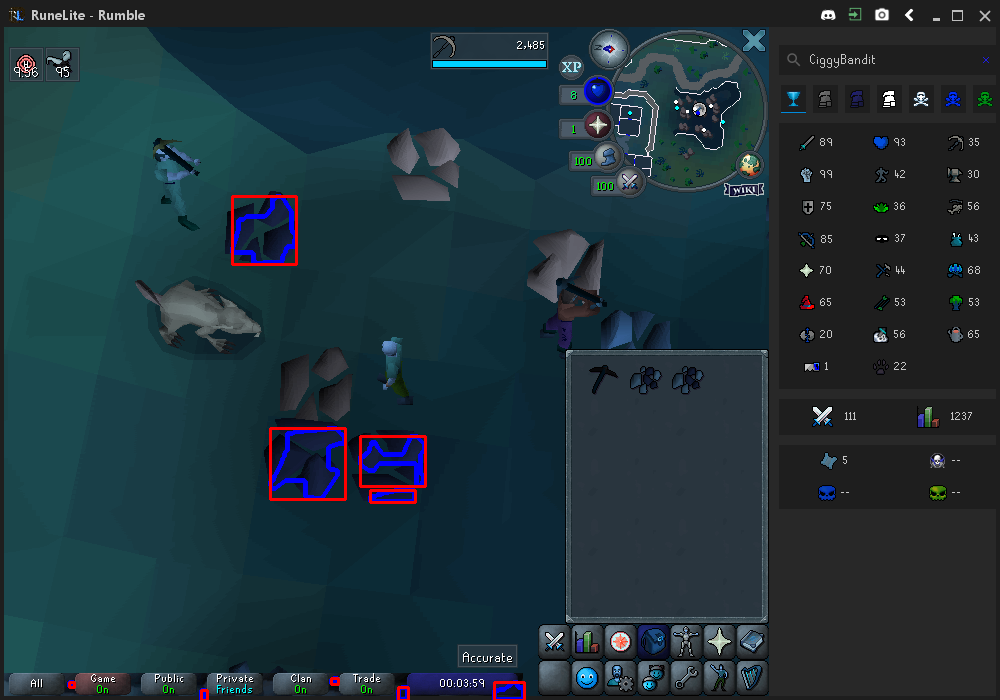
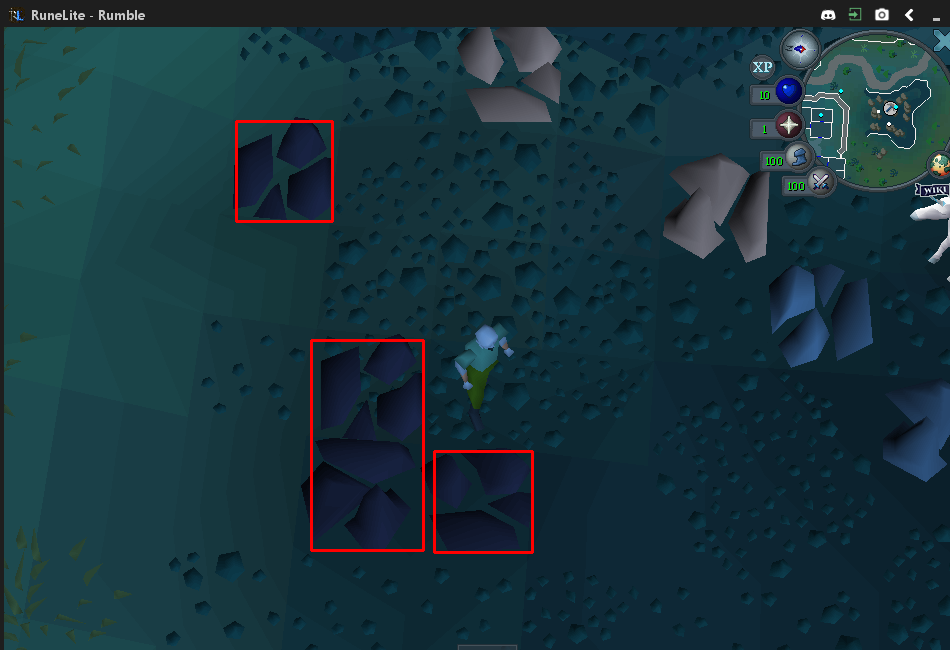
minor changes created config folder, changed min area for ore detection

diff --git a/scripts/ore_miner_script.py b/scripts/ore_miner_script.py
@@ -4,7 +4,6 @@ from object_detector import ObjectDetector
 from camera import Camera
 import numpy as np
 
-
 class OreMinerScript():
     def __init__(self, ore, window, cursor, numberOfRocks):
         self.window = window
@@ -14,15 +13,14 @@ class OreMinerScript():
 
     def botting_loop(self):
         while True:
-            start = time.time()
             image = Camera.screenshot(self.window.bbox)
             rocks = ObjectDetector.inColourRange(image, self.lowerBound, self.upperBound, self.numberOfRocks, debug=True)
-            end = time.time()
+            
             print(f'I found {len(rocks)} rocks in {end - start} seconds')
 
 
     def setOreColourBounds(self, ore):
-        with open('miningConfig.json') as json_file:
+        with open('./config/miningConfig.json') as json_file:
             config = json.load(json_file)
 
             try: 

diff --git a/object_detector.py b/object_detector.py
@@ -22,14 +22,14 @@ class ObjectDetector():
 
         detectedBoxes = { cv2.boundingRect(cont): cv2.boundingRect(cont)[2] * cv2.boundingRect(cont)[3]  for cont in conts }
         topNByArea = sorted(detectedBoxes.items(), key=operator.itemgetter(1), reverse=True)[:boxes_to_take]
-        print(topNByArea)
-        topNBoxes = [ a[0] for a in topNByArea if a[1] > 150 ]
+        topNBoxes = [ a[0] for a in topNByArea if a[1] > 1500 ]
 
         if debug:
             for bbox in topNBoxes:
                 x,y,w,h = bbox
                 cv2.rectangle(image,(x,y),(x+w,y+h),(0,0,255), 2)
             
-            cv2.imwrite(f'./images/{random.randint(0,100000)}.png',image)
+            rand = random.randint(0,100000)
+            cv2.imwrite(f'./images/{rand }.png',image)
 
         return topNBoxes

diff --git a/main.py b/main.py
@@ -12,7 +12,7 @@ def main():
     runelite.focus()
     runelite.resize(x=0,y=0,w=1000,h=700, absolute=True)
     cursor = Cursor()
-    script = OreMinerScript('iron', runelite, cursor, 3)
+    script = OreMinerScript('iron', runelite, cursor, 4)
 
     while True:
         script.botting_loop()
